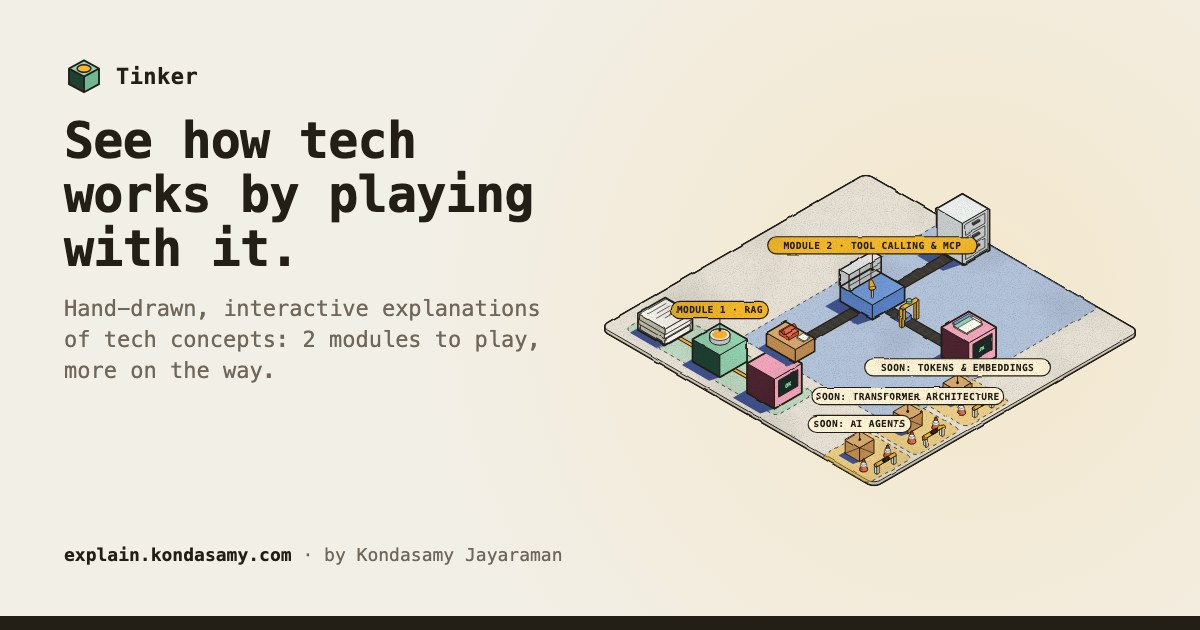
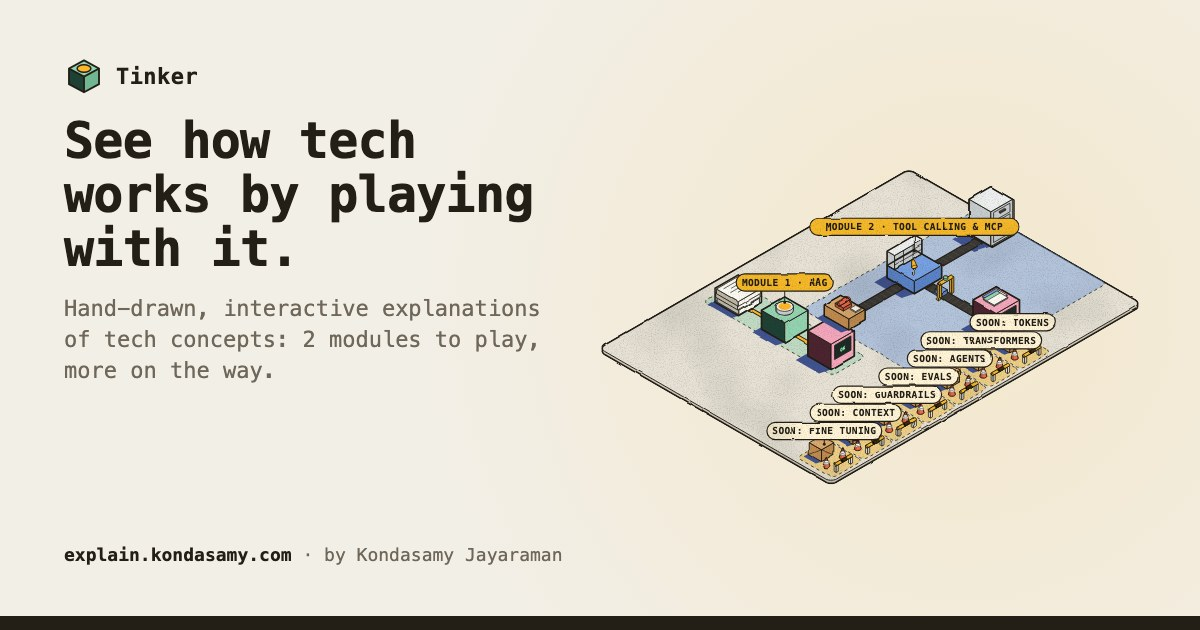
feat: four more modules on the roadmap
Evals & LLM testing, Prompt injection & guardrails and Context engineering &
memory (Intermediate), and Fine-tuning vs prompting (Advanced). Roadmap cards
carry an id so a chapter can point at one.

Changed region(s): [[0.4933, 0.2714, 0.9558, 0.7841]]

diff --git a/src/lib/modules.ts b/src/lib/modules.ts
@@ -50,6 +50,10 @@ export const MODULES: Module[] = [
   planned('tokens', 'Tokens & embeddings', 'Beginner', 'How text becomes the numbers a model reads.'),
   planned('transformers', 'Transformer architecture', 'Advanced', 'What happens inside the model between a prompt and its next word.'),
   planned('agents', 'AI agents', 'Advanced', 'Models that plan, call tools in a loop and decide when they are done.'),
+  planned('evals', 'Evals & LLM testing', 'Intermediate', 'How a team knows the assistant got better or worse: test sets, graders and regressions.'),
+  planned('guardrails', 'Prompt injection & guardrails', 'Intermediate', 'Text that tries to take over the model, and the defences that hold it back.'),
+  planned('context', 'Context engineering & memory', 'Intermediate', 'What goes into the model’s window each turn, and what it should remember.'),
+  planned('fine-tuning', 'Fine-tuning vs prompting', 'Advanced', 'When to train the model, when to prompt it, and when to give it documents.'),
 ];
 
 export function moduleOf(id: string): Module {

diff --git a/tests/unit/modules.test.ts b/tests/unit/modules.test.ts
@@ -27,7 +27,9 @@ describe('module registry', () => {
 
   it('lists the planned modules without chapters', () => {
     const planned = MODULES.filter(m => m.status === 'planned').map(m => [m.title, m.level, m.chapters.length]);
-    expect(planned).toEqual([['Tokens & embeddings', 'Beginner', 0], ['Transformer architecture', 'Advanced', 0], ['AI agents', 'Advanced', 0]]);
+    expect(planned).toEqual([['Tokens & embeddings', 'Beginner', 0], ['Transformer architecture', 'Advanced', 0], ['AI agents', 'Advanced', 0],
+      ['Evals & LLM testing', 'Intermediate', 0], ['Prompt injection & guardrails', 'Intermediate', 0],
+      ['Context engineering & memory', 'Intermediate', 0], ['Fine-tuning vs prompting', 'Advanced', 0]]);
   });
 
   it('has tool calling as a live Intermediate module that recommends RAG first', () => {

diff --git a/tests/e2e/catalogue.spec.ts b/tests/e2e/catalogue.spec.ts
@@ -16,6 +16,7 @@ test('levels in order, RAG under Beginner, planned modules as cards with no link
     const card = page.locator(`[data-level="${m.level}"] .roadmap[data-module="${m.id}"]`);
     await expect(card).toContainText(m.title);
     await expect(card).toContainText('Planned');
+    await expect(card).toHaveAttribute('id', `module-${m.id}`);
   }
   await expect(cards.locator('a, button, [tabindex]')).toHaveCount(0);
   await expect(page.locator('a[href="/tokens/"], a[href="/transformers/"], a[href="/agents/"]')).toHaveCount(0);
